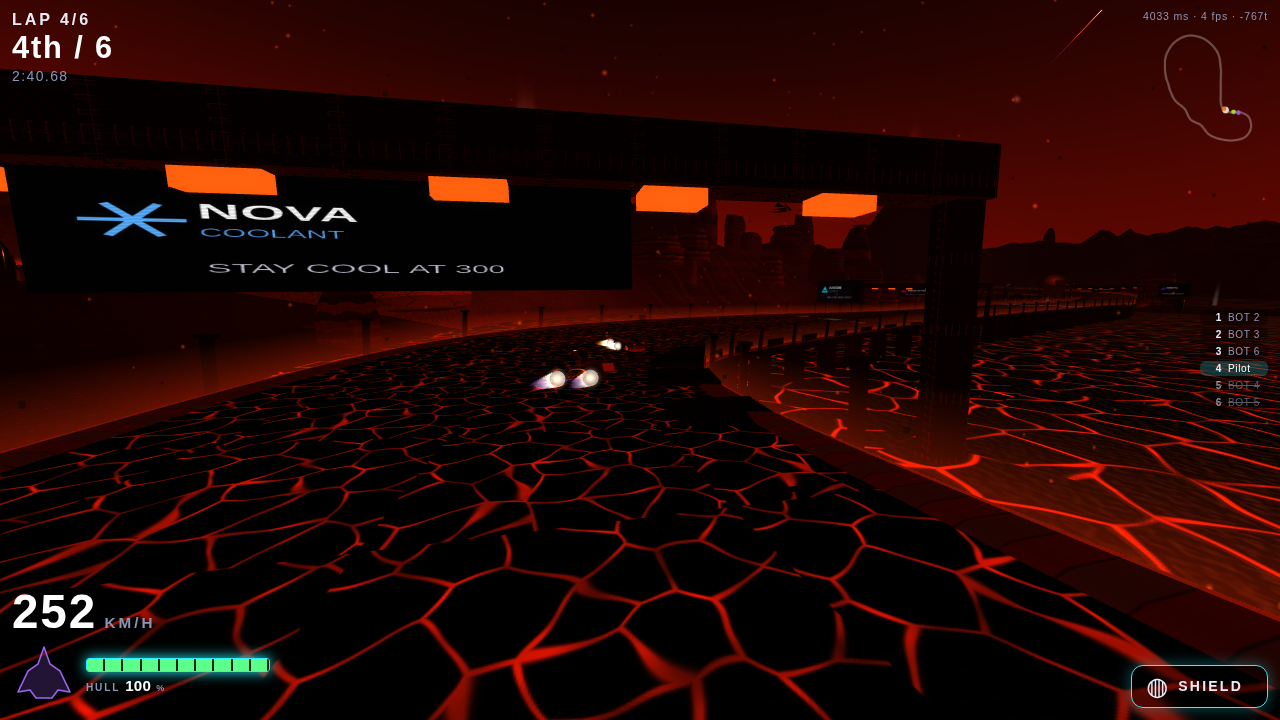
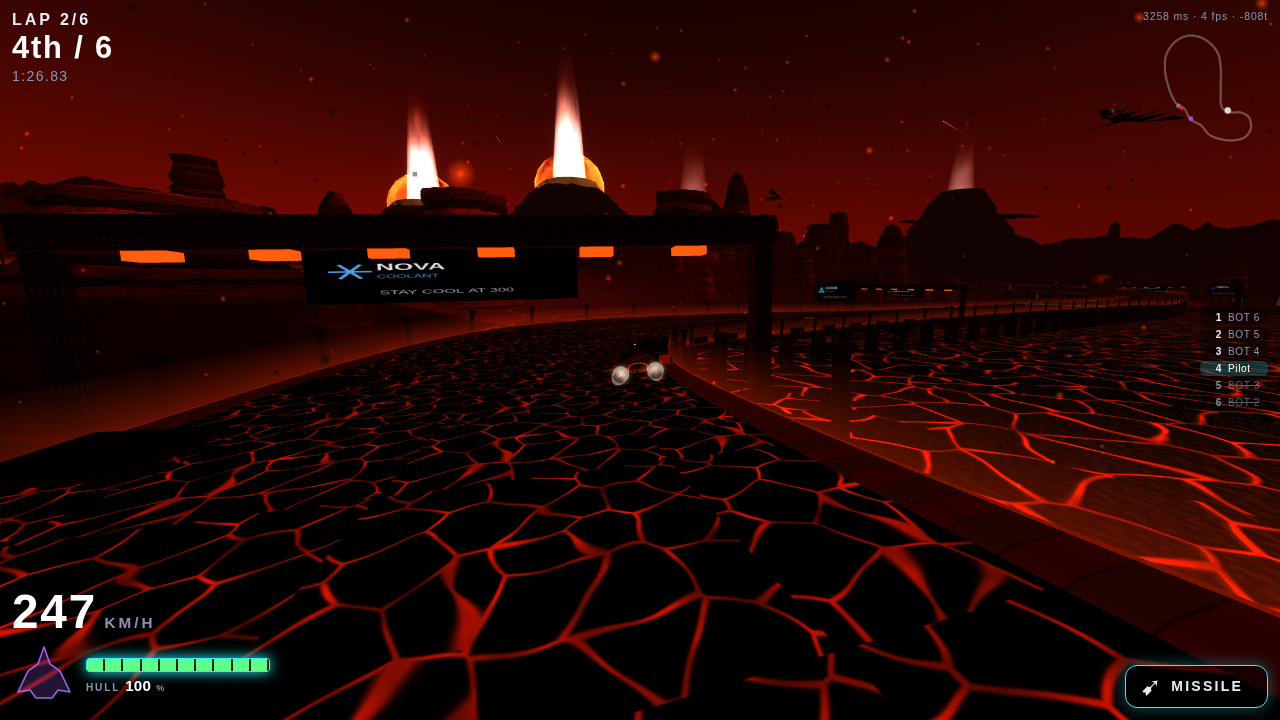
Inferno gets a jump worth the name: two seconds over the chasm
Inferno's fiction promised a jump over a lava chasm and delivered the smallest
one in the game: 1.23 s and 3.4 m above the road, against Cape Vanta's 1.57 s
and 8.8 m. The lip was a brow — the road climbed at 0.135, crested, and fell at
0.13, so the craft was barely unstuck.

The reason every jump here is small is worth writing down, and it is now in the
track's header. A craft leaves the ground at the slope of the lip times its
speed and falls at GRAVITY from there, and the landing costs it by how far the
road's own descent misses that. For a landing hill at one constant angle those
collapse into a single number: impact = W0 - slope × speed, and height =
impact² / 2g. Height and pain are the same quantity, which is why a big jump on
a straight slope always lands hard.

So this one is a ski hill. The shoulder past the lip stays shallow and the craft
climbs away from it; the hill then steepens to −0.31 to meet the craft's own
descent where it actually comes down, and flattens again for the outrun into the
esses. That decouples the two, and the jump can be big and still land square.

Measured with the linter's own bot on the built ribbon:

  air          1.07–1.23 s  ->  1.92–2.22 s
  above road   2.3–3.4 m    ->  8.5–11.9 m   (~90 m above the melt at the apex)
  landing      11–14 m/s    ->  22–26 m/s    (the damage line is 24: ~1 hp, on the
                                              fastest craft only)
  kestrel lap  30.6 s       ->  31.5 s
[…]

diff --git a/shared/agrav/tracks/inferno.js b/shared/agrav/tracks/inferno.js
@@ -1,9 +1,17 @@
 // ============================================================================
 // INFERNO BASIN — a red desert ringed by volcanoes. A causeway across a lava
-// lake, a long left sweeper, a climb up a volcano's flank to a lip and a jump
-// over a lava chasm, esses through the cinder field, a wide banked loop round
-// a caldera and home. Meteors, cinders and ash the whole way; the road itself
-// glows like cooling lava.
+// lake, a long left sweeper, a climb up a volcano's flank to a lip and a long
+// jump over a lava chasm, esses through the cinder field, a wide banked loop
+// round a caldera and home. Meteors, cinders and ash the whole way; the road
+// itself glows like cooling lava.
+//
+// The jump is a ski hill, not a brow. A craft leaves the ground at the slope of
+// the lip times its speed and falls at GRAVITY from there, and the landing hurts
+// by how far the road's own descent misses that. A hill at one constant angle
+// ties the two together -- height = impact^2 / 2g -- which is why a big jump on
+// a straight slope always lands hard. So the shoulder past the lip is shallow,
+// and the craft climbs away from it; the hill then steepens to meet the craft's
+// own descent where it comes down, and flattens again for the outrun.
 //
 // Plan coordinates (mirrored on load): y up; a corner that turns clockwise
 // seen from above is a right-hander and banks negative.
@@ -24,12 +32,14 @@ export default {
     { x: -280, y: 30, z: 500,  width: W, bank: 0.1 },
     { x: -400, y: 40, z: 440,  width: W - 2, bank: 0.16 },  // left, climbing the volcano's flank
     { x: -470, y: 54, z: 330,  width: W - 2, bank: 0.1 },
-    { x: -480, y: 66, z: 220,  width: W - 4 },              // straight up the flank
-    { x: -470, y: 74, z: 140,  width: W - 4 },              // the ramp
-    { x: -455, y: 78, z: 95,   width: W - 2 },              // the lip: the jump over the lava chasm
-    { x: -432, y: 70, z: 20,   width: W + 6 },              // landing, wide
-    { x: -390, y: 56, z: -60,  width: W + 2 },
-    { x: -310, y: 42, z: -130, width: W, bank: -0.12 },     // cinder-field esses: right
+    { x: -480, y: 64, z: 220,  width: W - 4 },              // straight up the flank
+    { x: -472, y: 71, z: 148,  width: W - 4 },              // the ramp
+    { x: -461, y: 78, z: 102,  width: W - 2 },              // steepening into the lip
+    { x: -453, y: 82, z: 72,   width: W },                  // the lip: the jump over the lava chasm
+    { x: -434, y: 76, z: 14,   width: W + 8 },              // the shoulder stays shallow: the craft climbs away from it
+    { x: -404, y: 60, z: -50,  width: W + 8 },              // the landing hill rolls over and plunges
+    { x: -370, y: 44, z: -95,  width: W + 6 },              // steepest where the craft comes down, so it lands square
+    { x: -310, y: 40, z: -130, width: W, bank: -0.12 },     // the outrun flattens into the cinder-field esses: right
     { x: -260, y: 36, z: -220, width: W, bank: 0.14 },      // left
     { x: -170, y: 32, z: -270, width: W, bank: -0.14 },     // right
     { x: -100, y: 30, z: -350, width: W, bank: 0.12 },      // left
@@ -47,7 +57,7 @@ export default {
     { s: 150,  lanes: [-7, 0, 7] },
     { s: 450,  lanes: [-6, 6] },
     { s: 750,  lanes: [-5, 0, 5] },
-    { s: 1050, lanes: [-6, 6] },
+    { s: 1000, lanes: [-6, 6] },     // ahead of the ramp: airborne craft take no pickups
     { s: 1350, lanes: [-7, 0, 7] },
     { s: 1650, lanes: [-6, 6] },
     { s: 1950, lanes: [-5, 0, 5] },

diff --git a/agrav/src/render/env/hell.js b/agrav/src/render/env/hell.js
@@ -17,7 +17,7 @@ import { makeRng } from '../../../../shared/sim/rng.js';
 const LAVA_LEVEL = 10;
 // world-space landmarks (the track is authored mirrored in x, so plan x = -442 is world +442)
 const LAKE = { x: 0, z: 60, r: 270 };        // the lava lake the causeway crosses
-const CHASM = { x: 442, z: 57, r: 70 };      // under the jump
+const CHASM = { x: 437, z: 40, r: 95 };      // under the jump: the lip and the first half of the flight
 const mixN = (a, b, t) => a + (b - a) * t;
 
 /** the height field: a rolling red plain, basins under the melt, volcanic rims far out (cached per track) */
@@ -224,7 +224,9 @@ export function buildHell(scene, ribbon, track) {
     if (f.isLoop) continue;
     const g0 = heightAt(f.pos.x, f.pos.z);
     const h = f.pos.y - g0;
-    if (h < 7) continue;
+    // the causeway stands 8-18 m over the melt; the chasm under the jump is eighty deep, and
+    // pylons that tall would turn the leap into a viaduct, so that span carries nothing
+    if (h < 7 || h > 26) continue;
     for (const sd of [-1, 1]) {
       const t = sd * (f.width / 2 - 2.2);
       pylonGeos.push(placed(pylonGeo(h, 1.5), f.pos.x + f.right.x * t, g0, f.pos.z + f.right.z * t, Math.atan2(f.tangent.x, f.tangent.z)));

diff --git a/agrav/README.md b/agrav/README.md
@@ -117,8 +117,9 @@ and holo boards.
 - **Cape Vanta** — coastal cliffs: cliff-edge sweepers, a tunnel through the headland, a
   jump across the cove, a chicane on the beach, a long sweep round the south point.
 - **Inferno Basin** — hellscape: a causeway over a lava lake, a climb up a volcano's flank to a
-  jump over a lava chasm, esses through the cinder field, a wide banked loop round a caldera.
-  Meteors fall the whole race; the road itself glows like cooling lava.
+  lip and **two seconds of air** over a lava chasm — twelve metres above the road, ninety above the
+  melt — esses through the cinder field, a wide banked loop round a caldera. Meteors fall the whole
+  race; the road itself glows like cooling lava.
 - **Mare Selene** — the Moon: a sweep along a crater rim, a long straight into a full
   **loop-the-loop**, a descent through the boulder field, a chicane past the moon base.
 - **Osa Reef** — Costa Rican jungle coast: a causeway through the trees, a dive under the sea in
@@ -193,7 +194,8 @@ track is chosen (the lobby prewarms it), so the server ships nothing but the rib
   away; buttes, weathered slabs and spires filling the middle distance, obsidian shards nearer the
   road, fissures with the melt showing through the plain, lava falling into the chasm and over the
   lake wall, steam vents breathing beside the verge and pools of ember light along it; pylons under
-  the causeway where it flies over the melt; a pool of meteors that streak in from a dome round the
+  the causeway where it flies over the melt, and none over the chasm, where an eighty-metre column
+  would turn the leap into a viaduct; a pool of meteors that streak in from a dome round the
   camera and burst on the plain (never on the road), plus distant streaks; rising cinders, falling
   ash, red mist; two flocks of black pterodactyls; charred trees that stir in the heat; the road
   material swapped for cooling lava.
